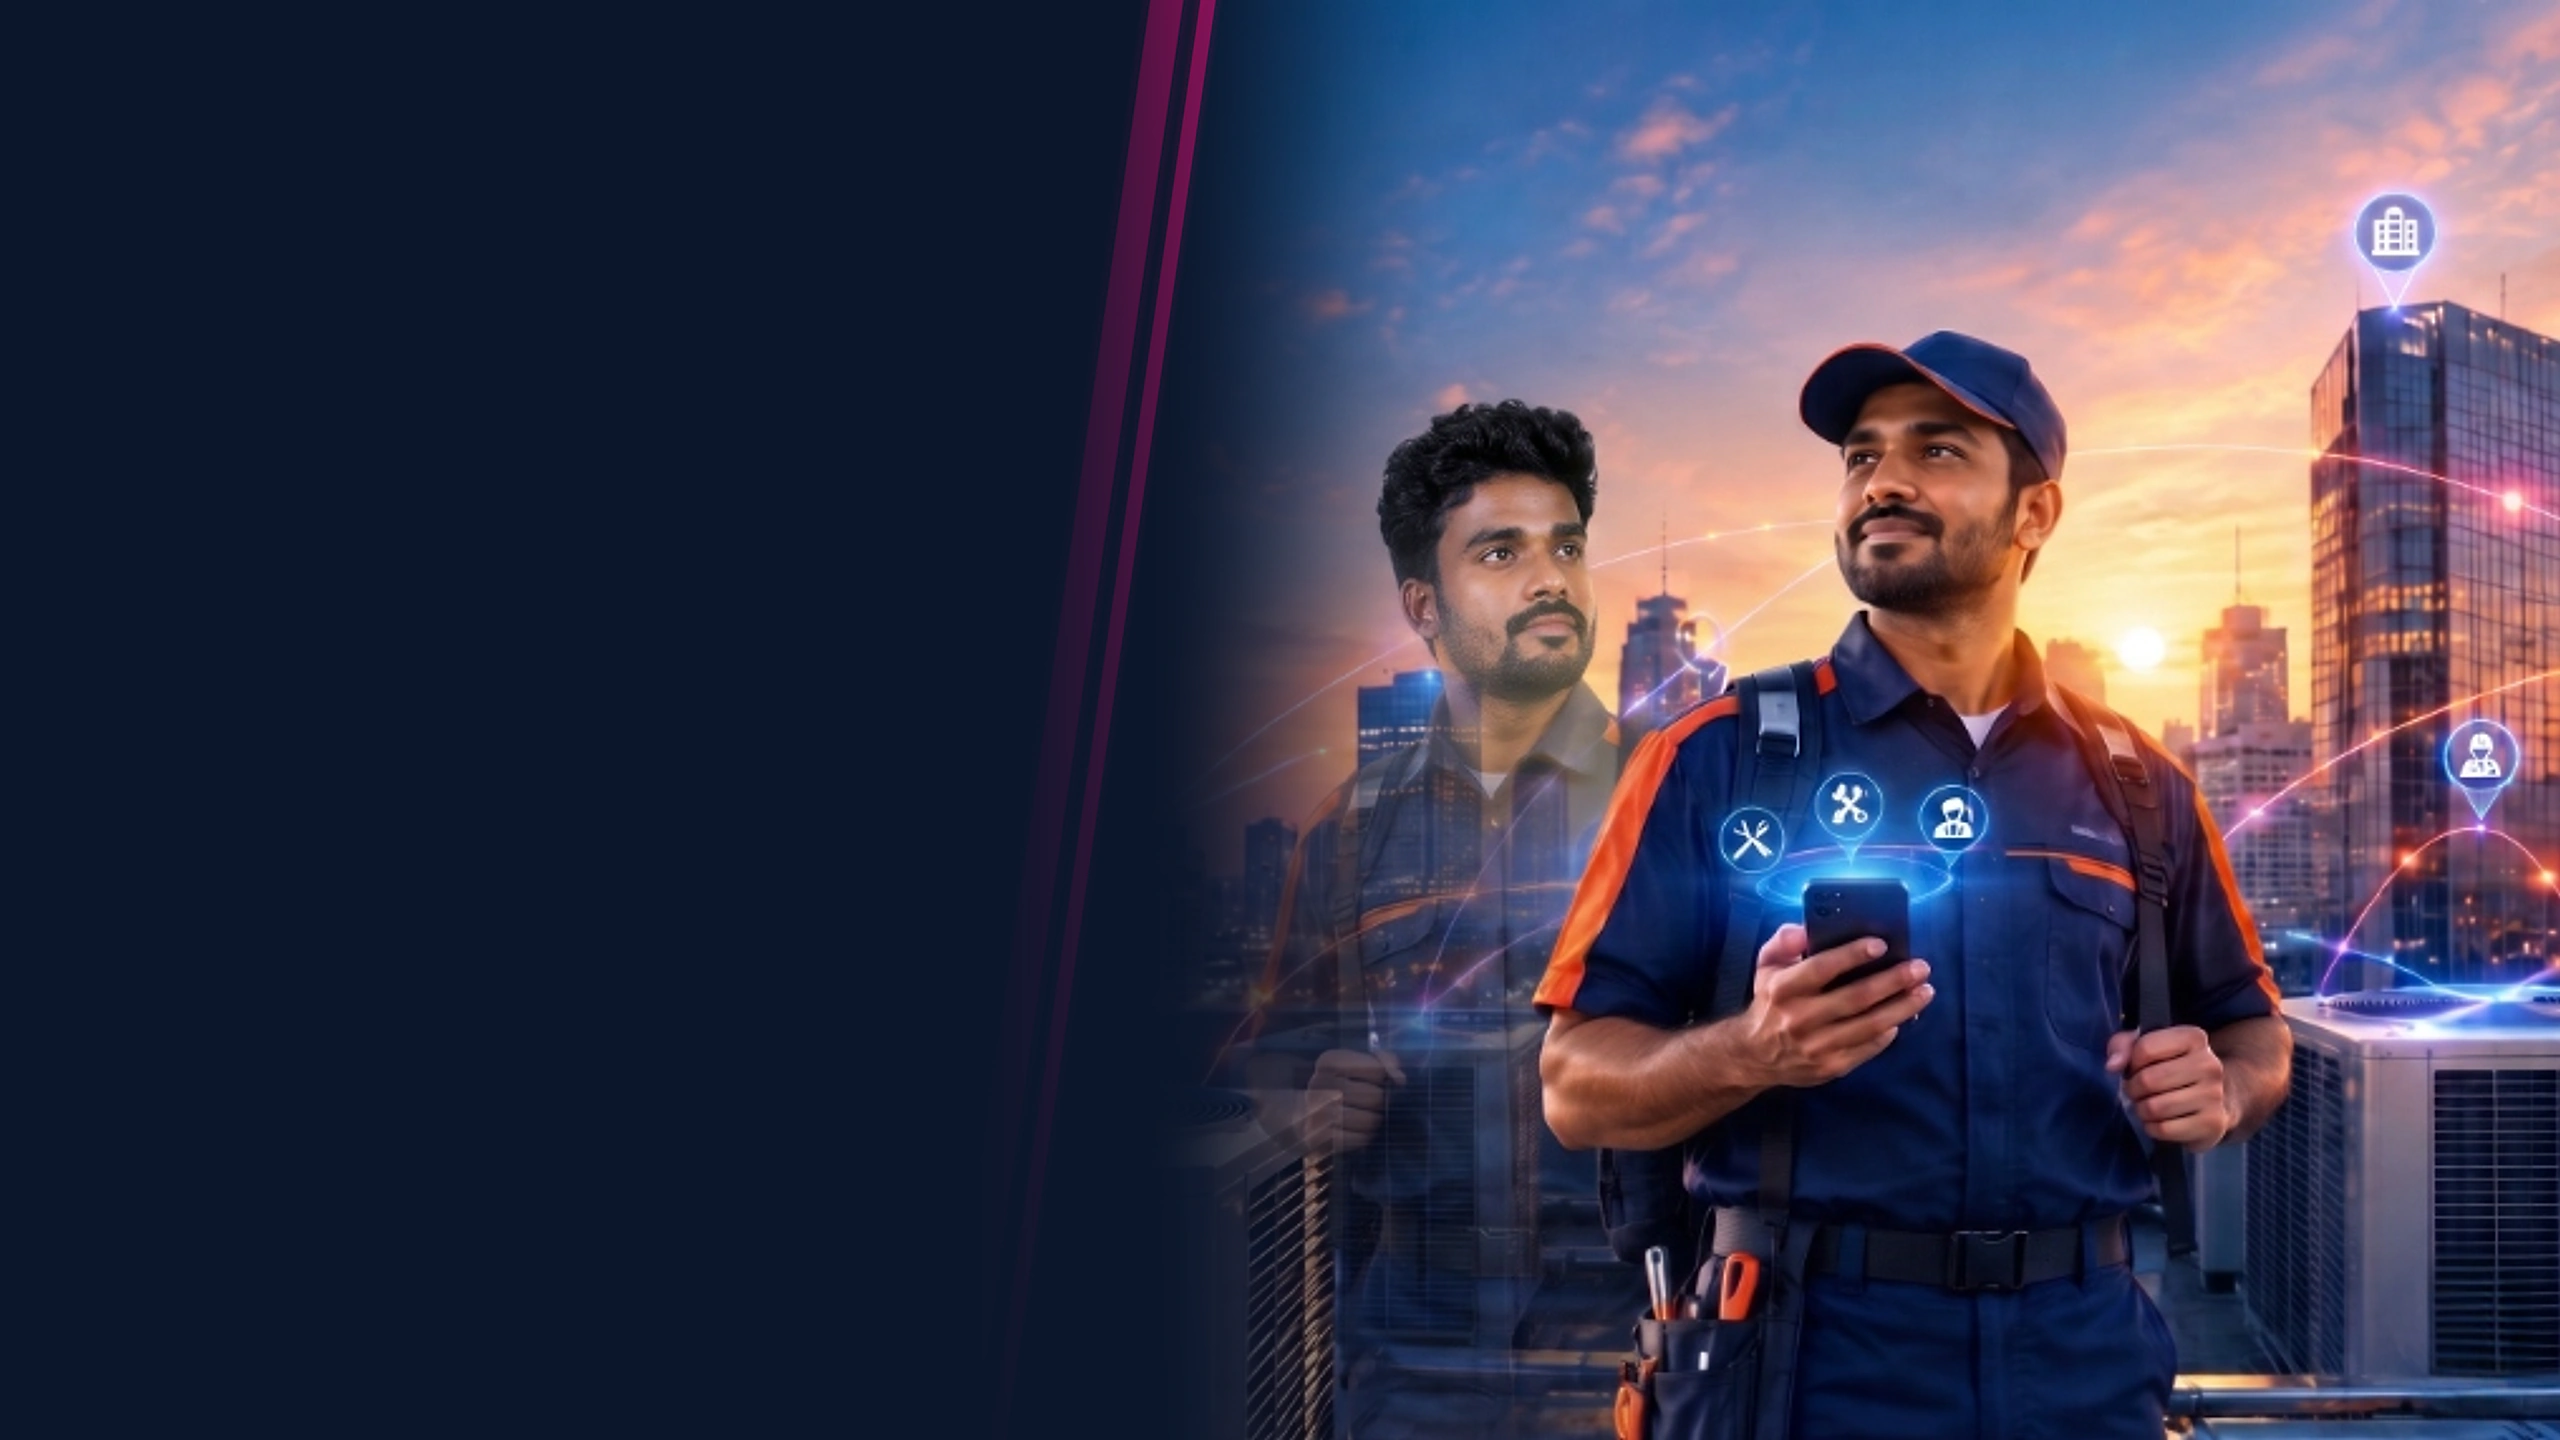
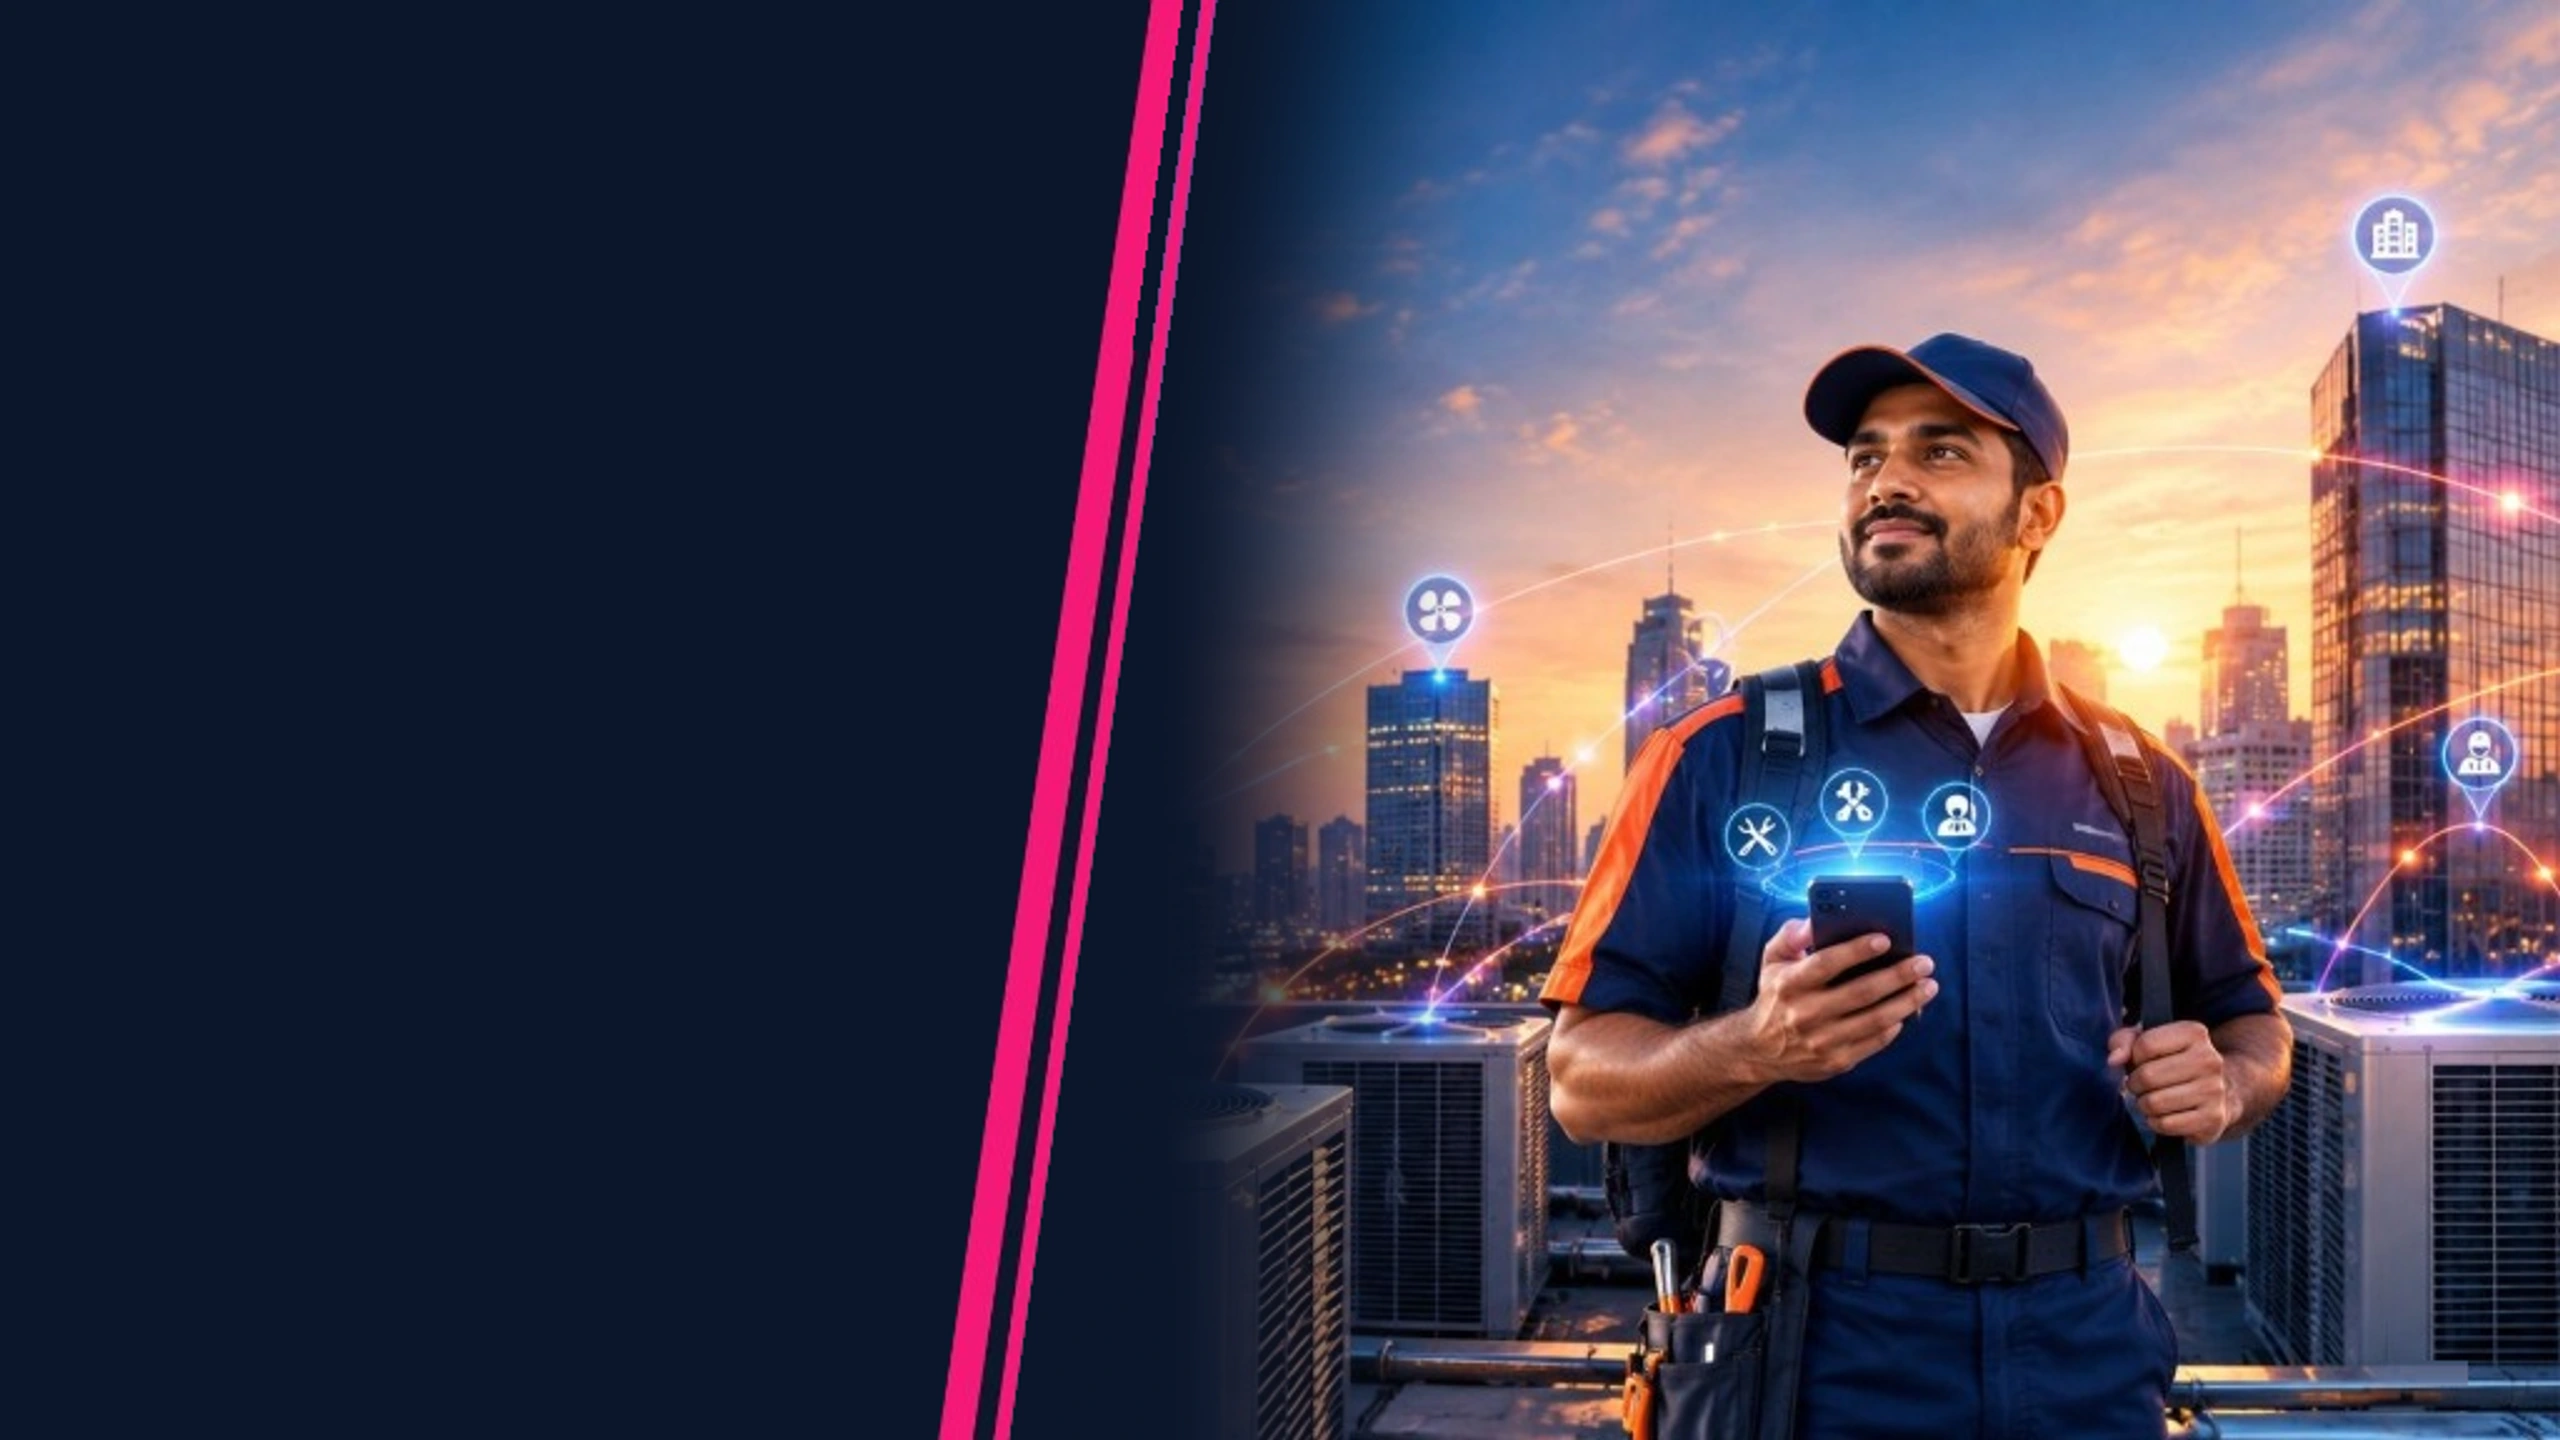
Update hero visual with soft-edge link line merge, add authentic real-life service imagery, and remove third-party branding

diff --git a/src/components/FutureVision.tsx b/src/components/FutureVision.tsx
@@ -20,6 +20,10 @@ export const FutureVision: React.FC = () => {
     {
       title: 'Electrical Services',
       icon: Zap,
+      image: '/images/roadmap-electrical.webp',
+      fallbackImage: '/images/roadmap-electrical.jpg',
+      alt: 'Certified professional electrician inspecting electrical distribution panel with digital multimeter',
+      badge: 'Electrical Systems',
       items: [
         'Electrical installation and repair',
         'Wiring, lighting, switches, and electrical troubleshooting',
@@ -29,6 +33,10 @@ export const FutureVision: React.FC = () => {
     {
       title: 'Plumbing Services',
       icon: Droplets,
+      image: '/images/roadmap-plumbing.webp',
+      fallbackImage: '/images/roadmap-plumbing.jpg',
+      alt: 'Professional plumber servicing high-grade copper piping, drainage valves, and water systems',
+      badge: 'Plumbing & Water',
       items: [
         'Plumbing installation and repairs',
         'Pipe leakage and drainage solutions',
@@ -38,6 +46,10 @@ export const FutureVision: React.FC = () => {
     {
       title: 'Home Appliance Services',
       icon: Tv,
+      image: '/images/roadmap-appliances.webp',
+      fallbackImage: '/images/roadmap-appliances.jpg',
+      alt: 'Home appliance specialist servicing smart refrigerator and kitchen appliances with digital tablet',
+      badge: 'Household & Kitchen',
       items: [
         'Refrigerator and washing machine servicing',
         'Kitchen appliance repairs',
@@ -47,6 +59,10 @@ export const FutureVision: React.FC = () => {
     {
       title: 'Carpentry and Handyman Services',
       icon: Hammer,
+      image: '/images/roadmap-carpentry.webp',
+      fallbackImage: '/images/roadmap-carpentry.jpg',
+      alt: 'Skilled carpenter and handyman fitting solid wood cabinetry and door fixtures with precision tools',
+      badge: 'Woodwork & Fixtures',
       items: [
         'Furniture assembly and repairs',
         'Door, lock, hinge, and fixture maintenance',
@@ -56,6 +72,10 @@ export const FutureVision: React.FC = () => {
     {
       title: 'Painting and Property Maintenance',
       icon: Paintbrush,
+      image: '/images/roadmap-painting.webp',
+      fallbackImage: '/images/roadmap-painting.jpg',
+      alt: 'Professional painter applying precision interior paint with extension roller and clean finish',
+      badge: 'Surfaces & Coating',
       items: [
         'Interior and exterior painting',
         'Wall repairs and surface maintenance',
@@ -65,6 +85,10 @@ export const FutureVision: React.FC = () => {
     {
       title: 'Cleaning Services',
       icon: Sparkles,
+      image: '/images/roadmap-cleaning.webp',
+      fallbackImage: '/images/roadmap-cleaning.jpg',
+      alt: 'Deep cleaning professional operating commercial floor scrubber in pristine corporate lobby',
+      badge: 'Sanitization & Deep Clean',
       items: [
         'Home and office cleaning',
         'Deep cleaning for kitchens and bathrooms',
@@ -121,35 +145,62 @@ export const FutureVision: React.FC = () => {
           </div>
         </div>
 
-        {/* Categories Grid - 6 Standard Cards */}
+        {/* Categories Grid - 6 Standard Cards with Real Images */}
         <div className="grid grid-cols-1 md:grid-cols-2 lg:grid-cols-3 gap-6 lg:gap-8 mb-12">
           {standardCategories.map((cat, idx) => {
             const Icon = cat.icon;
             return (
               <div 
                 key={idx}
-                className="p-8 rounded-2xl bg-white border border-slate-200/70 hover:border-slate-300 hover:shadow-sm transition-all duration-200 flex flex-col justify-between"
+                className="rounded-2xl bg-white border border-slate-200/80 hover:border-slate-300 hover:shadow-md transition-all duration-300 flex flex-col justify-between overflow-hidden group"
               >
                 <div>
-                  <div className="w-11 h-11 rounded-xl bg-pink-50 text-[#F20A78] flex items-center justify-center mb-5">
-                    <Icon className="w-5 h-5" />
+                  {/* Real Image Header */}
+                  <div className="relative aspect-[16/10] w-full overflow-hidden bg-slate-100 border-b border-slate-100">
+                    <picture className="w-full h-full block">
+                      <source srcSet={cat.image} type="image/webp" />
+                      <img
+                        src={cat.fallbackImage}
+                        alt={cat.alt}
+                        className="w-full h-full object-cover object-center transition-transform duration-500 group-hover:scale-105"
+                        loading="lazy"
+                        decoding="async"
+                        width="1376"
+                        height="768"
+                      />
+                    </picture>
+                    <div className="absolute inset-0 bg-gradient-to-t from-slate-950/80 via-slate-950/20 to-transparent opacity-90 group-hover:opacity-75 transition-opacity" />
+                    
+                    <div className="absolute top-3 right-3">
+                      <span className="text-[11px] font-semibold text-white/95 bg-slate-900/70 backdrop-blur-md px-2.5 py-1 rounded-full border border-white/20 shadow-xs">
+                        {cat.badge}
+                      </span>
+                    </div>
+
+                    <div className="absolute bottom-3 left-4 right-4 flex items-center gap-2.5">
+                      <div className="w-9 h-9 rounded-xl bg-white/95 backdrop-blur-md text-[#F20A78] flex items-center justify-center shrink-0 shadow-sm">
+                        <Icon className="w-4 h-4" />
+                      </div>
+                      <h3 className="text-base sm:text-lg font-bold text-white drop-shadow-sm tracking-tight leading-tight">
+                        {cat.title}
+                      </h3>
+                    </div>
                   </div>
 
-                  <h3 className="text-xl font-bold text-slate-900 mb-4 tracking-tight">
-                    {cat.title}
-                  </h3>
-
-                  <ul className="space-y-2.5">
-                    {cat.items.map((item, itemIdx) => (
-                      <li 
-                        key={itemIdx} 
-                        className="flex items-start gap-2.5 text-sm text-slate-600 leading-relaxed"
-                      >
-                        <CheckCircle2 className="w-4 h-4 text-[#F20A78] shrink-0 mt-1" />
-                        <span>{item}</span>
-                      </li>
-                    ))}
-                  </ul>
+                  {/* Body Content */}
+                  <div className="p-6">
+                    <ul className="space-y-2.5">
+                      {cat.items.map((item, itemIdx) => (
+                        <li 
+                          key={itemIdx} 
+                          className="flex items-start gap-2.5 text-sm text-slate-600 leading-relaxed"
+                        >
+                          <CheckCircle2 className="w-4 h-4 text-[#F20A78] shrink-0 mt-0.5" />
+                          <span>{item}</span>
+                        </li>
+                      ))}
+                    </ul>
+                  </div>
                 </div>
               </div>
             );

diff --git a/src/components/WhatWeDo.tsx b/src/components/WhatWeDo.tsx
@@ -144,10 +144,10 @@ export const WhatWeDo: React.FC = () => {
           {/* Left Column: Image */}
           <div className="lg:col-span-5 relative min-h-[260px] sm:min-h-[320px] lg:min-h-full overflow-hidden group">
             <picture className="w-full h-full block">
-              <source srcSet="/images/ac-technician-maintenance.webp" type="image/webp" />
+              <source srcSet="/images/field-service-diagnostics.webp" type="image/webp" />
               <img
-                src="/images/ac-technician-maintenance.jpg"
-                alt="Young Indian HVAC technician in unbranded uniform conducting digital telemetry inspection on air conditioning unit"
+                src="/images/field-service-diagnostics.jpg"
+                alt="Skilled Indian field technician in unbranded uniform conducting digital telemetry inspection and smart diagnostic check on technical distribution systems"
                 className="w-full h-full min-h-[260px] object-cover object-center transition-transform duration-500 group-hover:scale-[1.02]"
                 loading="lazy"
                 decoding="async"
@@ -161,7 +161,7 @@ export const WhatWeDo: React.FC = () => {
                 Precision Field Execution
               </span>
               <p className="text-xs text-slate-200 drop-shadow-sm mt-0.5">
-                Real-time diagnostics & verified service checklists.
+                Real-time diagnostics & verified multi-point checklists.
               </p>
             </div>
           </div>

diff --git a/src/components/AboutUs.tsx b/src/components/AboutUs.tsx
@@ -120,7 +120,7 @@ export const AboutUs: React.FC = () => {
                 <source srcSet="/images/about-connected-team.webp" type="image/webp" />
                 <img
                   src="/images/about-connected-team.jpg"
-                  alt="Young Indian service professionals and field engineers connected through SKORNET operations"
+                  alt="Multi-skilled Indian service professionals, electricians, digital telemetry technicians, and facilities engineers connected through SKORNET operations"
                   className="w-full h-full object-cover object-center transition-transform duration-500 group-hover:scale-[1.02]"
                   loading="lazy"
                   decoding="async"
@@ -133,7 +133,7 @@ export const AboutUs: React.FC = () => {
                     Connected Field Workforce
                   </span>
                   <p className="text-xs sm:text-sm text-slate-100 font-medium drop-shadow-sm mt-0.5">
-                    Uniting skilled technicians, operational teams, and customer expectations.
+                    Uniting skilled multi-trade technicians, operational teams, and customer expectations.
                   </p>
                 </div>
               </picture>

diff --git a/src/components/Hero.tsx b/src/components/Hero.tsx
@@ -60,7 +60,7 @@ export const Hero: React.FC<HeroProps> = ({ onExploreClick }) => {
           className="absolute inset-0 w-full pointer-events-none z-1"
           style={{
             background:
-              'linear-gradient(90deg, #0B162B 0%, #0B162B 18%, rgba(11, 22, 43, 0.85) 30%, rgba(11, 22, 43, 0.40) 42%, rgba(11, 22, 43, 0.05) 54%, transparent 64%)',
+              'linear-gradient(90deg, #0B162B 0%, #0B162B 24%, rgba(11, 22, 43, 0.75) 30%, rgba(11, 22, 43, 0.15) 36%, transparent 42%)',
           }}
           aria-hidden="true"
         />
